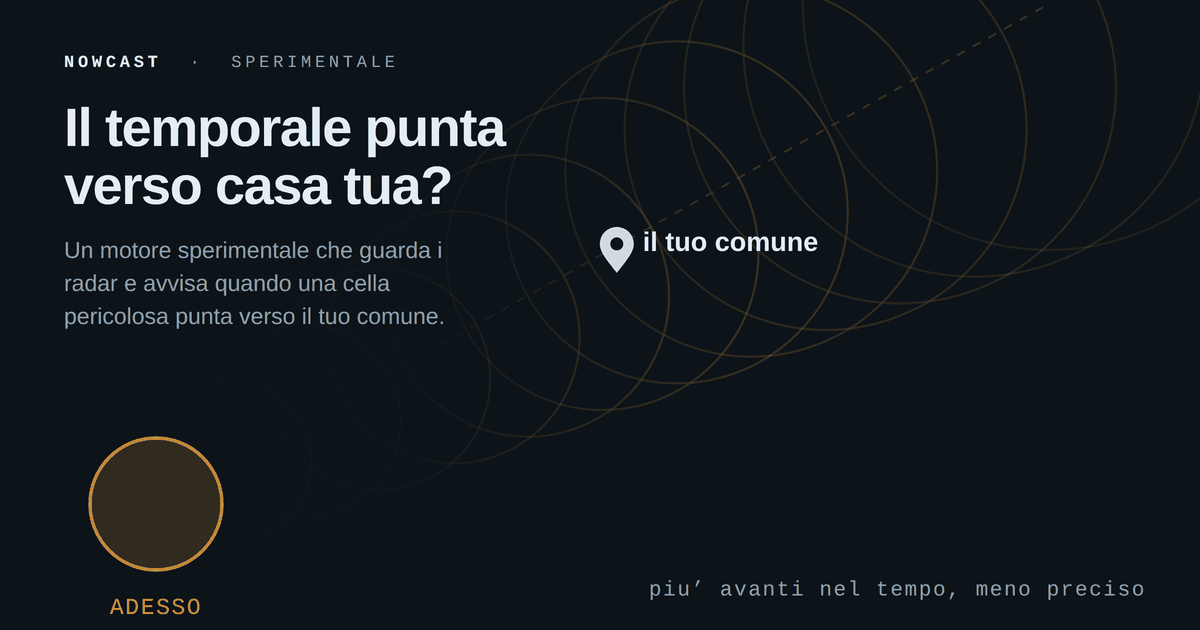
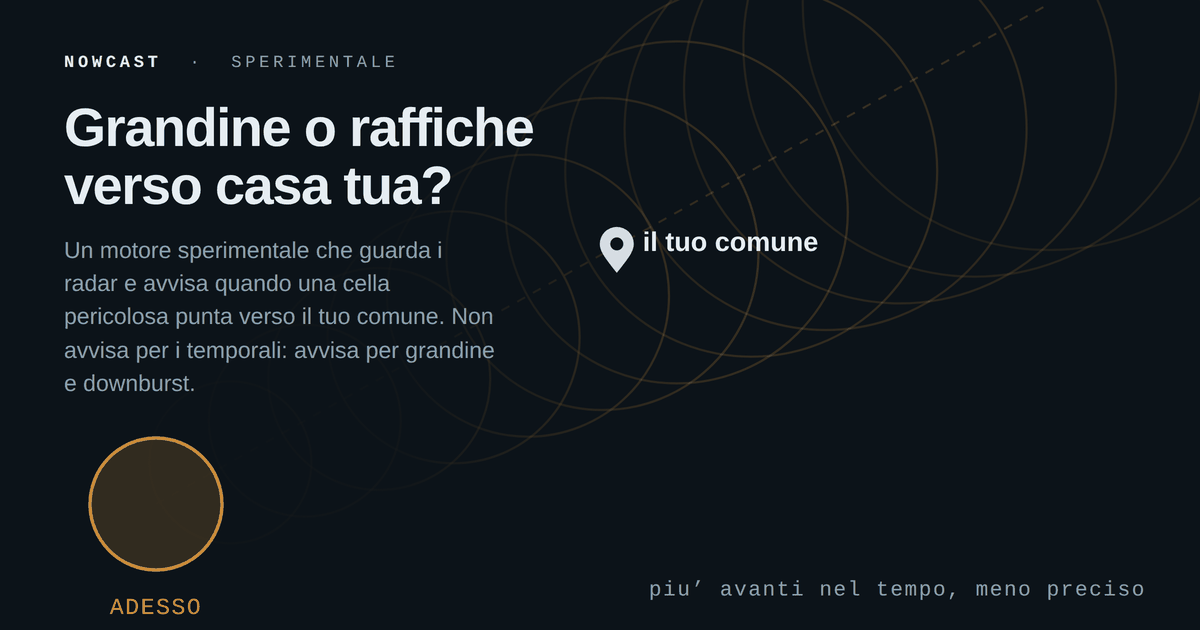
Nowcast: titolo, testi e registro corretti

diff --git a/index.html b/index.html
@@ -290,6 +290,8 @@
       background:
         radial-gradient(ellipse at 78% 40%, rgba(224,154,60,.14), transparent 60%),
         linear-gradient(180deg,#0c1319 0%,#0e1620 100%);
+      /* dopo la scorciatoia, non prima: altrimenti lo azzera lei */
+      background-color:#0c1319;
       border-bottom:1px solid rgba(224,154,60,.22);
       padding:38px 0 34px;
     }
@@ -423,14 +425,15 @@
 
       <div class="nc-intro">
         <div class="nowcast-eyebrow"><span class="dot"></span>Novità · esperimento aperto</div>
-        <h2 id="nowcast-titolo">Ti avviso quando il temporale <span class="acc">punta verso il tuo comune</span>.</h2>
+        <h2 id="nowcast-titolo">Ti avviso quando <span class="acc">grandine o raffiche</span> puntano verso il tuo comune.</h2>
       </div>
 
       <div class="nc-dett">
         <p class="nowcast-lead">
           <strong>Nowcast</strong> legge i mosaici radar della Protezione Civile e del servizio
-          meteo tedesco, insegue i temporali e manda una notifica quando una cella pericolosa —
-          <strong>grandine</strong> o <strong>downburst</strong> — punta verso una zona che hai
+          meteo tedesco, insegue le celle temporalesche e manda una notifica quando una di loro
+          diventa pericolosa — <strong>grandine</strong> o <strong>downburst</strong> — e punta
+          verso una zona che hai
           scelto di sorvegliare. Il preavviso reale è di dieci o quindici minuti: quelli che
           bastano a mettere la macchina al coperto.
         </p>
